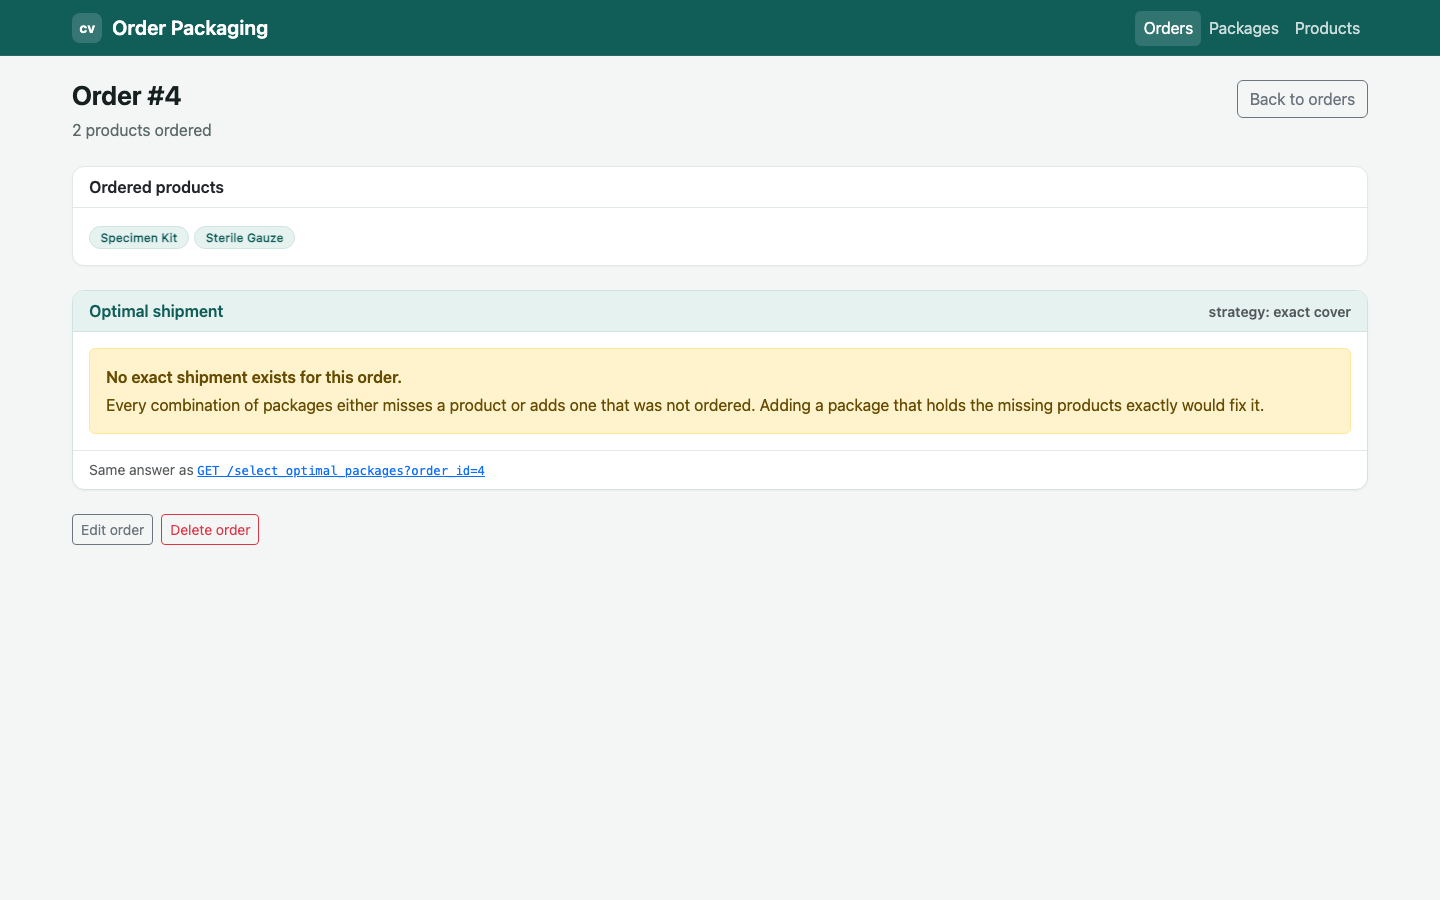
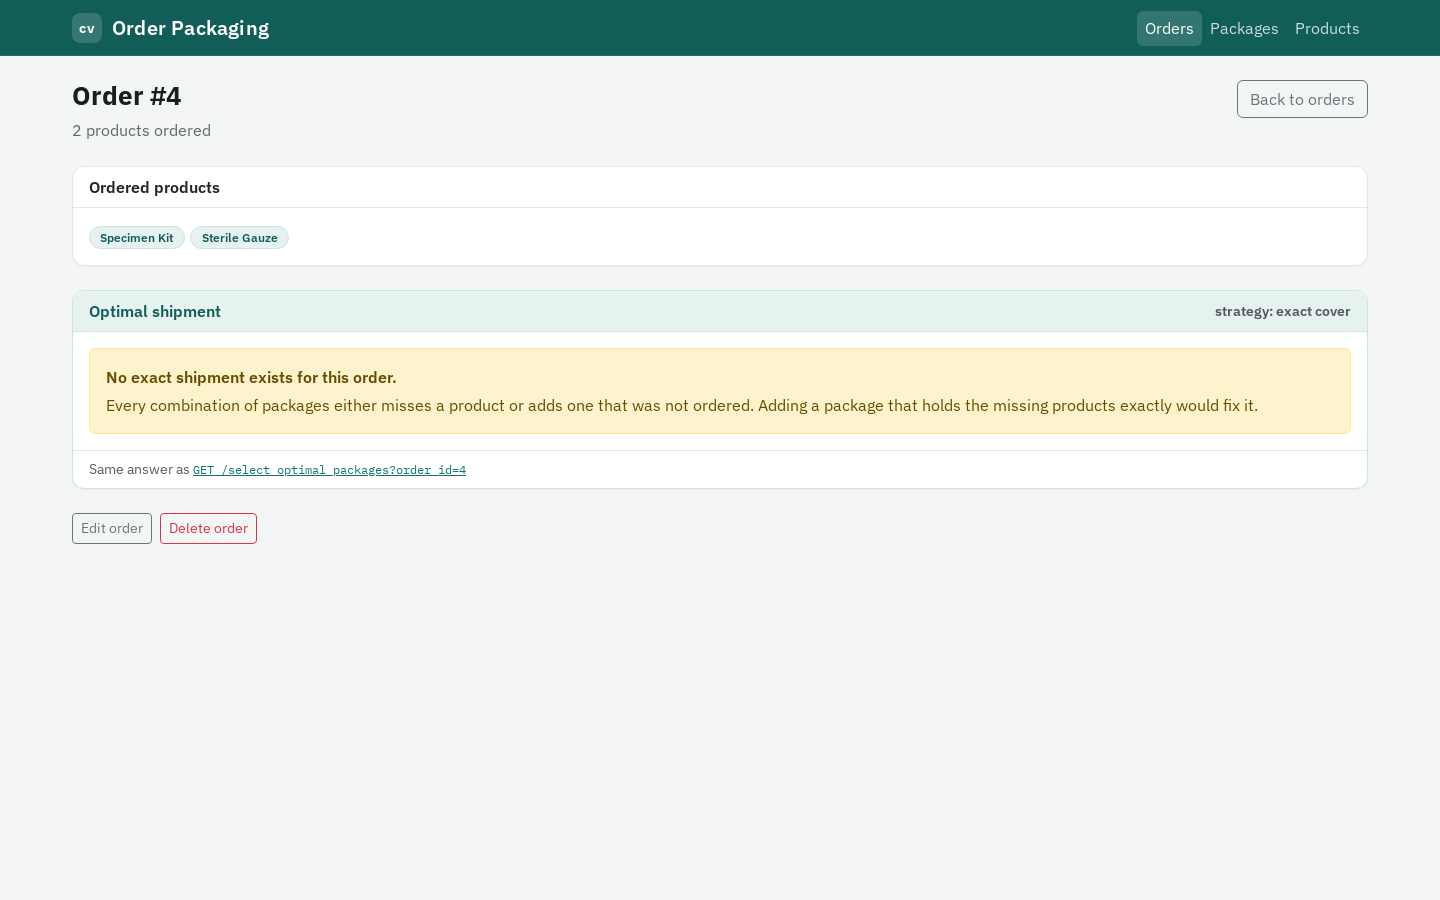
Refresh README and screenshots for Rails 8.1 and esbuild
Screenshots are re-captured from the seeded stack at desktop and phone
widths, adding the order form and three phone views. The README's
setup steps gain yarn build and the new runtimes, the benchmark tables
are re-measured on Ruby 3.4, and the Ruby 3.0 caveat is gone. Adds an
MIT LICENSE.

diff --git a/README.md b/README.md
@@ -5,7 +5,7 @@ set of products, find the **smallest set of packages whose combined contents are
 order**: every ordered product shipped once, nothing surplus in the box.
 
 That is minimum-cardinality *exact cover*. It is NP-hard, it is the graded deliverable, and it
-is what most of this README is about. Around it sits a Rails 7 CRUD UI for products, packages
+is what most of this README is about. Around it sits a Rails 8.1 CRUD UI for products, packages
 and orders, plus one JSON endpoint that answers the question for a given order.
 
 The example from the brief, which is also the seed data:
@@ -34,22 +34,24 @@ docker compose down -v           # stop, and drop the database volume
 Compose starts PostgreSQL, waits for it, runs `db:prepare` and an idempotent `db:seed`, then boots
 Puma. Host ports are **8180** (app) and **8181** (PostgreSQL). The seed data is the worked example
 above plus a small clinical-supplies catalogue with three more orders, one of which deliberately
-has no exact shipment. The image is a three-stage build — Node, Yarn and `build-essential` stay in
-the builder, the runtime carries only `libpq5` and `postgresql-client` and runs as a non-root
-`rails` user. Build and boot are both verified: `/health` answered `{"status":"ok","database":"ok"}`
-and the suite inside the image reported 184 examples, 0 failures.
+has no exact shipment. The image is a three-stage build on Ruby 3.4 and Debian bookworm — Node 24,
+Yarn and `build-essential` stay in the builder, the runtime carries only `libpq5` and
+`postgresql-client` and runs as a non-root `rails` user. `curl localhost:8180/health` answers
+`{"status":"ok","database":"ok"}` once it is up.
 
-Without Docker, this needs Ruby 3.0.x, PostgreSQL and Yarn:
+Without Docker, this needs Ruby 3.4 (`.ruby-version`), Node 24 (`.nvmrc`), Yarn 1 and PostgreSQL:
 
 ```shell
 bundle install
 yarn install
 cp .env.example .env             # then edit DB_USERNAME / DB_PASSWORD
 bin/rails db:setup               # create, load schema, seed
+yarn build                       # bundle app/javascript; `yarn build --watch` while editing
 bin/rails server
 
-bundle exec rspec                              # 184 examples
-bin/lint                                       # rubocop + rubocop-rails, installed on demand
+bin/rails db:test:prepare                      # also rebuilds the JavaScript bundle
+bundle exec rspec                              # 187 examples
+bin/lint                                       # rubocop + rubocop-rails
 bundle exec rake package_selection:benchmark   # timings across catalogue sizes
 bundle exec rake package_selection:states      # states visited as orders grow
 bundle exec rake package_selection:hard        # the adversarial case
@@ -60,6 +62,8 @@ The test database is built from `db/schema.rb` (`bin/rails db:test:prepare` refr
 
 ## What it looks like
 
+Captured from the seeded Compose stack with Playwright, at 1440×900 and 390×844.
+
 | The order page, with its computed shipment | The package catalogue |
 | --- | --- |
 | ![Order detail showing its optimal shipment](docs/screenshots/order-shipment.png) | ![Packages index](docs/screenshots/packages-index.png) |
@@ -67,6 +71,19 @@ The test database is built from `db/schema.rb` (`bin/rails db:test:prepare` refr
 | The orders list, with its shipment modal | An order that has no exact shipment |
 | --- | --- |
 | ![Orders index with the shipment modal open](docs/screenshots/orders-modal.png) | ![Order with no exact shipment](docs/screenshots/order-no-shipment.png) |
+
+Building an order with the product picker:
+
+![New order form with the select2 product picker open](docs/screenshots/order-form.png)
+
+| Orders on a phone | An order on a phone | Navigation on a phone |
+| --- | --- | --- |
+| ![Orders index at phone width](docs/screenshots/mobile-orders-index.png) | ![Order detail at phone width](docs/screenshots/mobile-order-shipment.png) | ![Expanded navigation at phone width](docs/screenshots/mobile-navigation.png) |
+
+The front end is deliberately small: server-rendered ERB with Bootstrap 5, bundled by esbuild
+through `jsbundling-rails` into `app/assets/builds` and served by Sprockets. The only JavaScript
+is the select2 product picker and the modal that calls the JSON endpoint; deleting works as a
+plain form without it.
 
 ## The search
 
@@ -126,17 +143,18 @@ request may visit, past which the search raises `SearchLimitExceeded` and the en
 
 ### Measured, not asserted
 
-`bundle exec rake package_selection:benchmark`, on an M-series laptop:
+`bundle exec rake package_selection:benchmark`, inside the Docker image (Ruby 3.4) on an
+M-series laptop:
 
 ```
 case                     order  packages       kept   packages  exact cover  brute force
 ------------------------------------------------------------------------------------------
-the brief's example          3         7          4          1       0.0 ms       0.1 ms
-a small warehouse            8        42         23          2       0.1 ms          n/a
+the brief's example          3         7          4          1       0.0 ms       0.2 ms
+a small warehouse            8        42         23          2       0.0 ms          n/a
 a real catalogue            12       203         75          3       0.1 ms          n/a
 a big catalogue             16      1004        262          4       0.3 ms          n/a
-a very big catalogue        20      5005        811          5       1.1 ms          n/a
-a silly catalogue           24     20006       1930          6       3.0 ms          n/a
+a very big catalogue        20      5005        811          5       1.0 ms          n/a
+a silly catalogue           24     20006       1930          6       2.7 ms          n/a
 ```
 
 `kept` is how many packages survive filtering, `packages` the size of the answer. Brute force runs
@@ -154,18 +172,18 @@ is none, which the search has to *prove*:
 ```
   order  packages  states visited         time
 -----------------------------------------------
-      7        21              21       0.1 ms
+      7        21              21       0.0 ms
       9        36              55       0.1 ms
-     11        55             144       0.4 ms
-     13        78             377       1.1 ms
-     15       105             987       3.5 ms
-     17       136            2584      10.6 ms
-     19       171            6765      28.2 ms
-     21       210           17711     100.0 ms
+     11        55             144       0.3 ms
+     13        78             377       0.9 ms
+     15       105             987       2.6 ms
+     17       136            2584       7.4 ms
+     19       171            6765      22.0 ms
+     21       210           17711      64.9 ms
 ```
 
 Exponential, as it must be, but at roughly φⁿ rather than 2ⁿ. The state counts are deterministic and
-the task reproduces them exactly; the times were measured inside the Docker image (a host run is faster).
+the task reproduces them exactly; the times are from the same Docker run.
 
 ## Two solvers, one contract
 
@@ -207,7 +225,7 @@ it up; the shared spec `"a package selection strategy"` is the contract it must 
 | Status | Body | When |
 | --- | --- | --- |
 | `200` | `{"shipment_packages":["Package6","Package3"]}` | solved |
-| `404` | `{"error":"Order not found"}` | no such order |
+| `404` | `{"error":"Order not found"}` | no such order, or no `order_id` at all |
 | `404` | `{"error":"No valid packages found"}` | nothing ships the order exactly |
 | `422` | `{"error":"Order is too large to package synchronously"}` | the search hit its work budget |
 
@@ -315,6 +333,9 @@ the index pages gained `includes` and pagination, and the join tables gained the
 - **Quantities are not modelled.** An order is a *set*: the same product cannot be ordered twice,
   and packages hold one of each — the brief is stated that way and the bitmask representation
   depends on it. There is no cost or weight either, so "smallest set" counts packages only.
-- **Ruby 3.0 is end of life**, pinned by the original exercise. The Gemfile allows any 3.0.x and
-  the image uses 3.0.2, because no official 3.0.1 image exists on a Debian release whose package
-  archives are still alive.
+- **select2 still needs jQuery.** It is the only reason jQuery is in the bundle (pinned to 3.x,
+  which select2 4.1 is built against); a jQuery-free picker would cut most of the 260 KB bundle.
+
+## Licence
+
+MIT, see [LICENSE](LICENSE).
